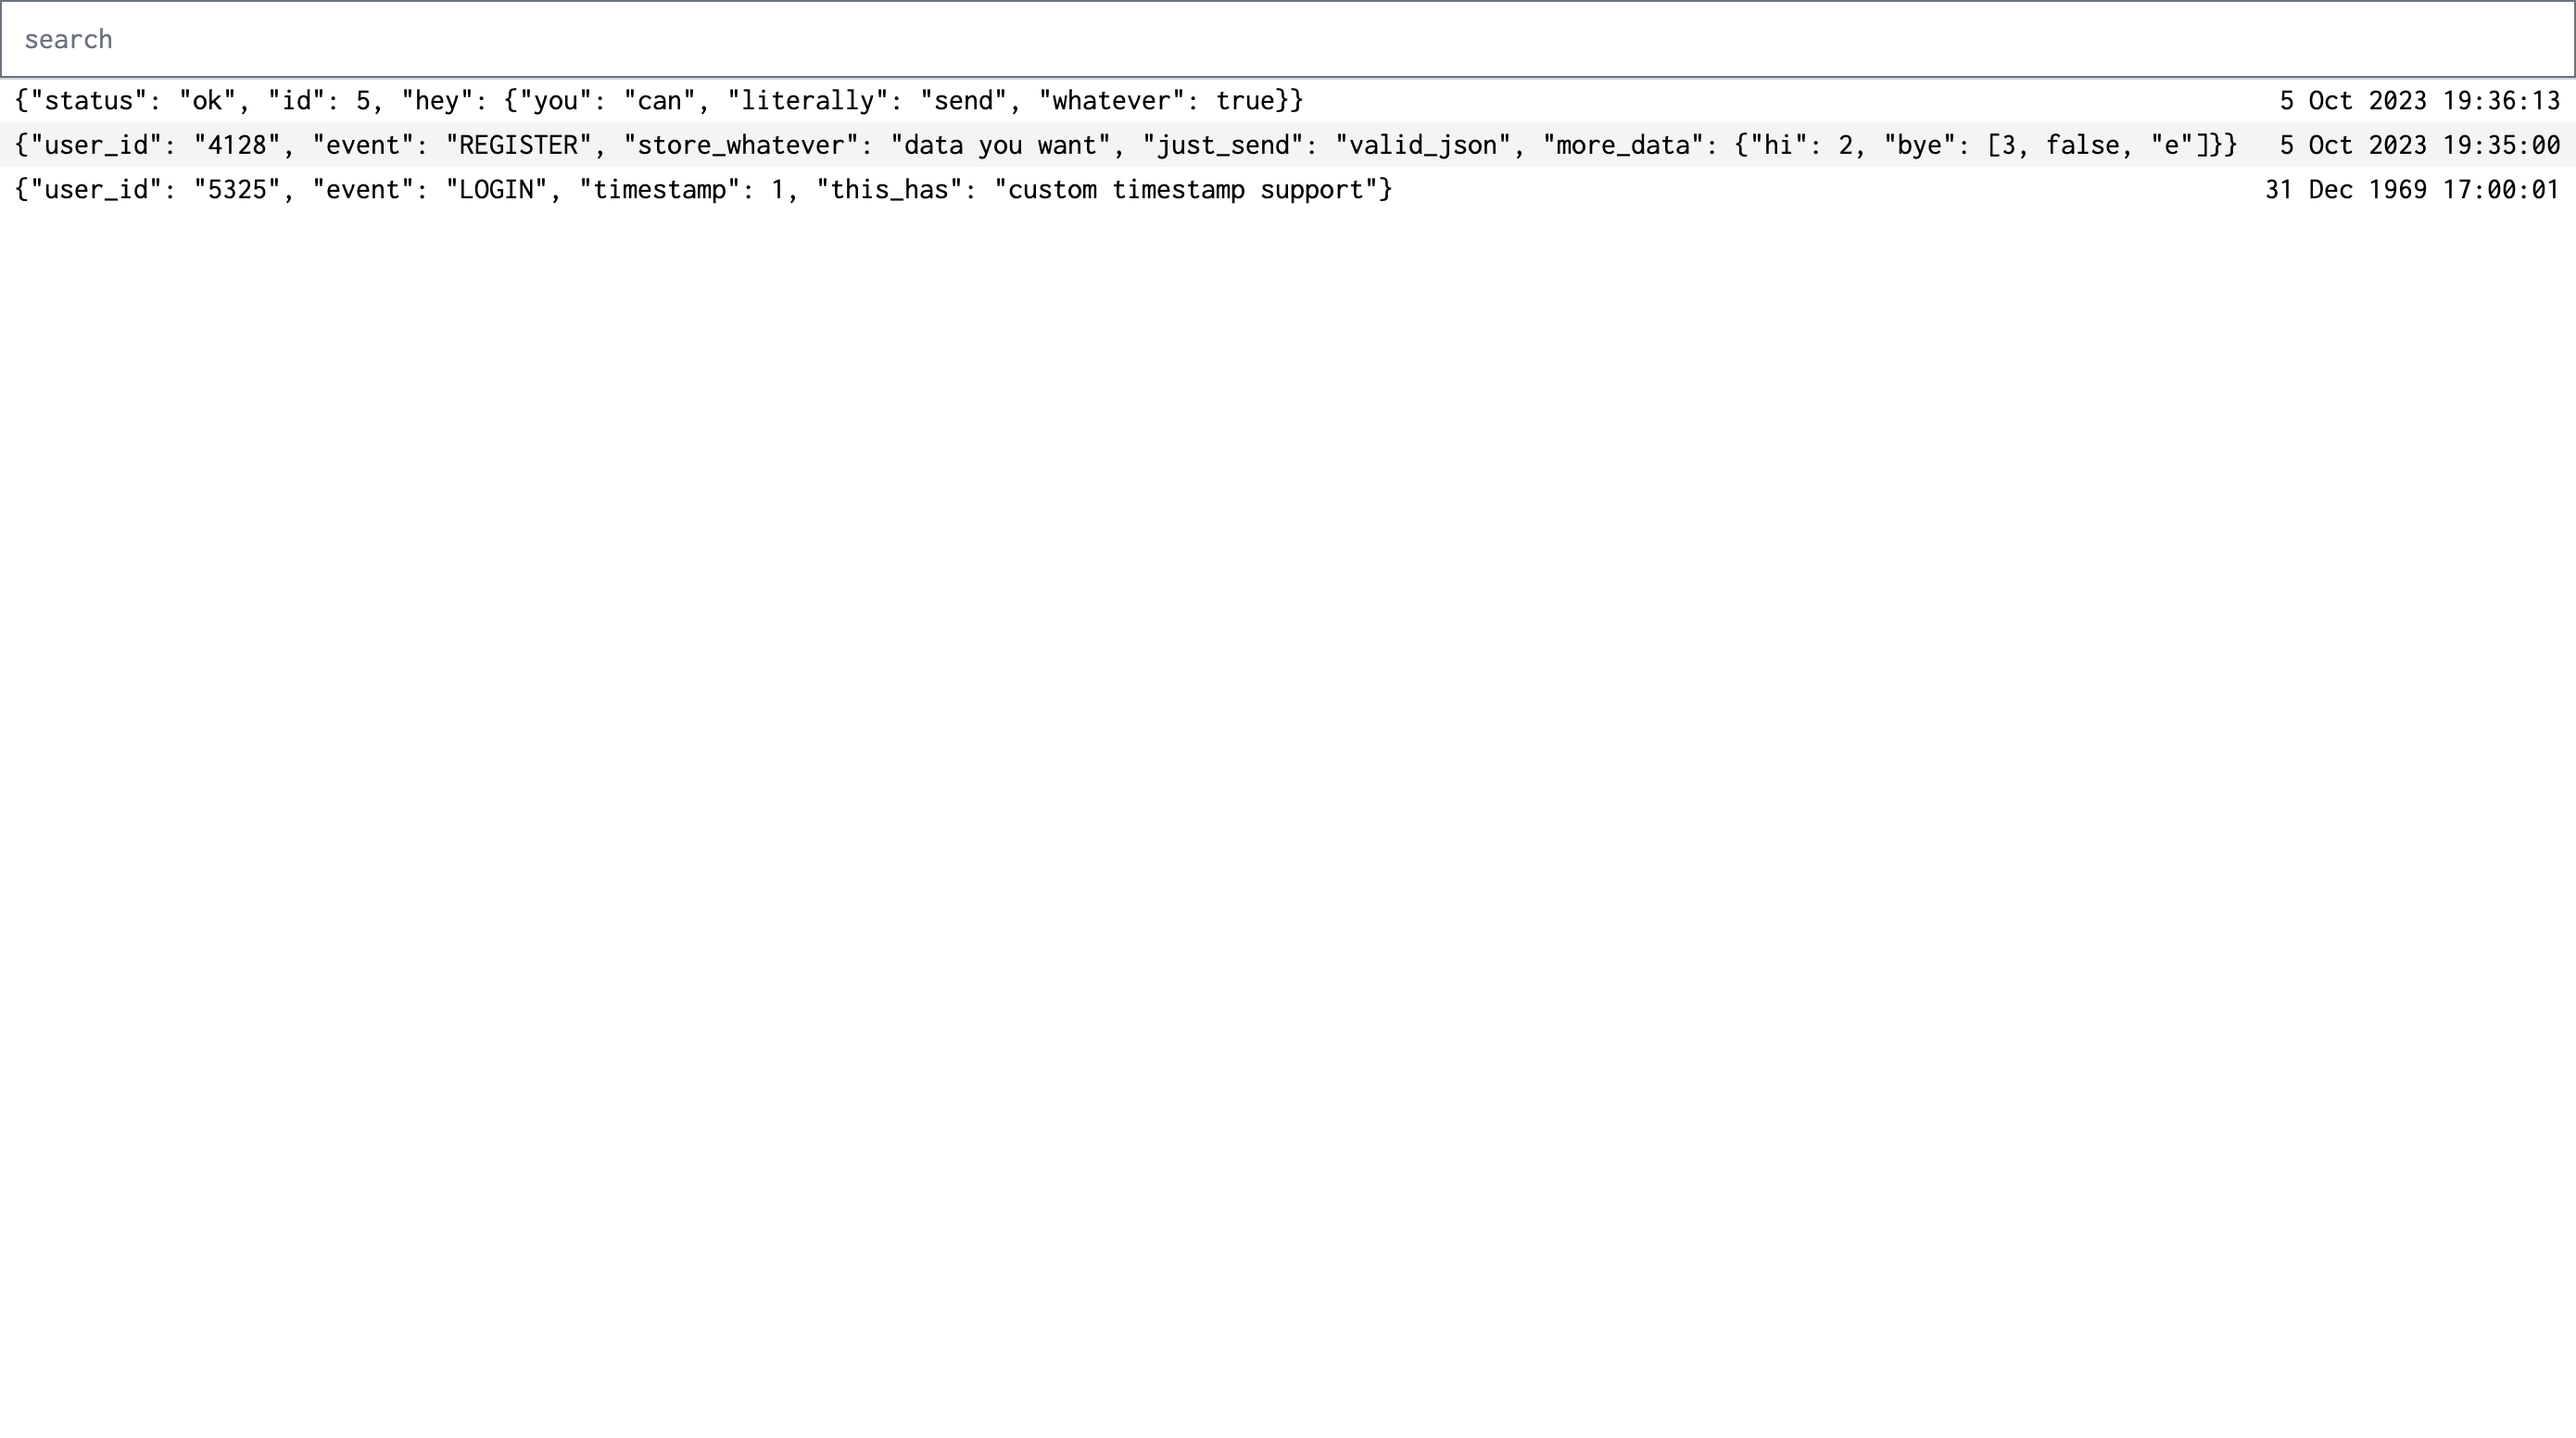
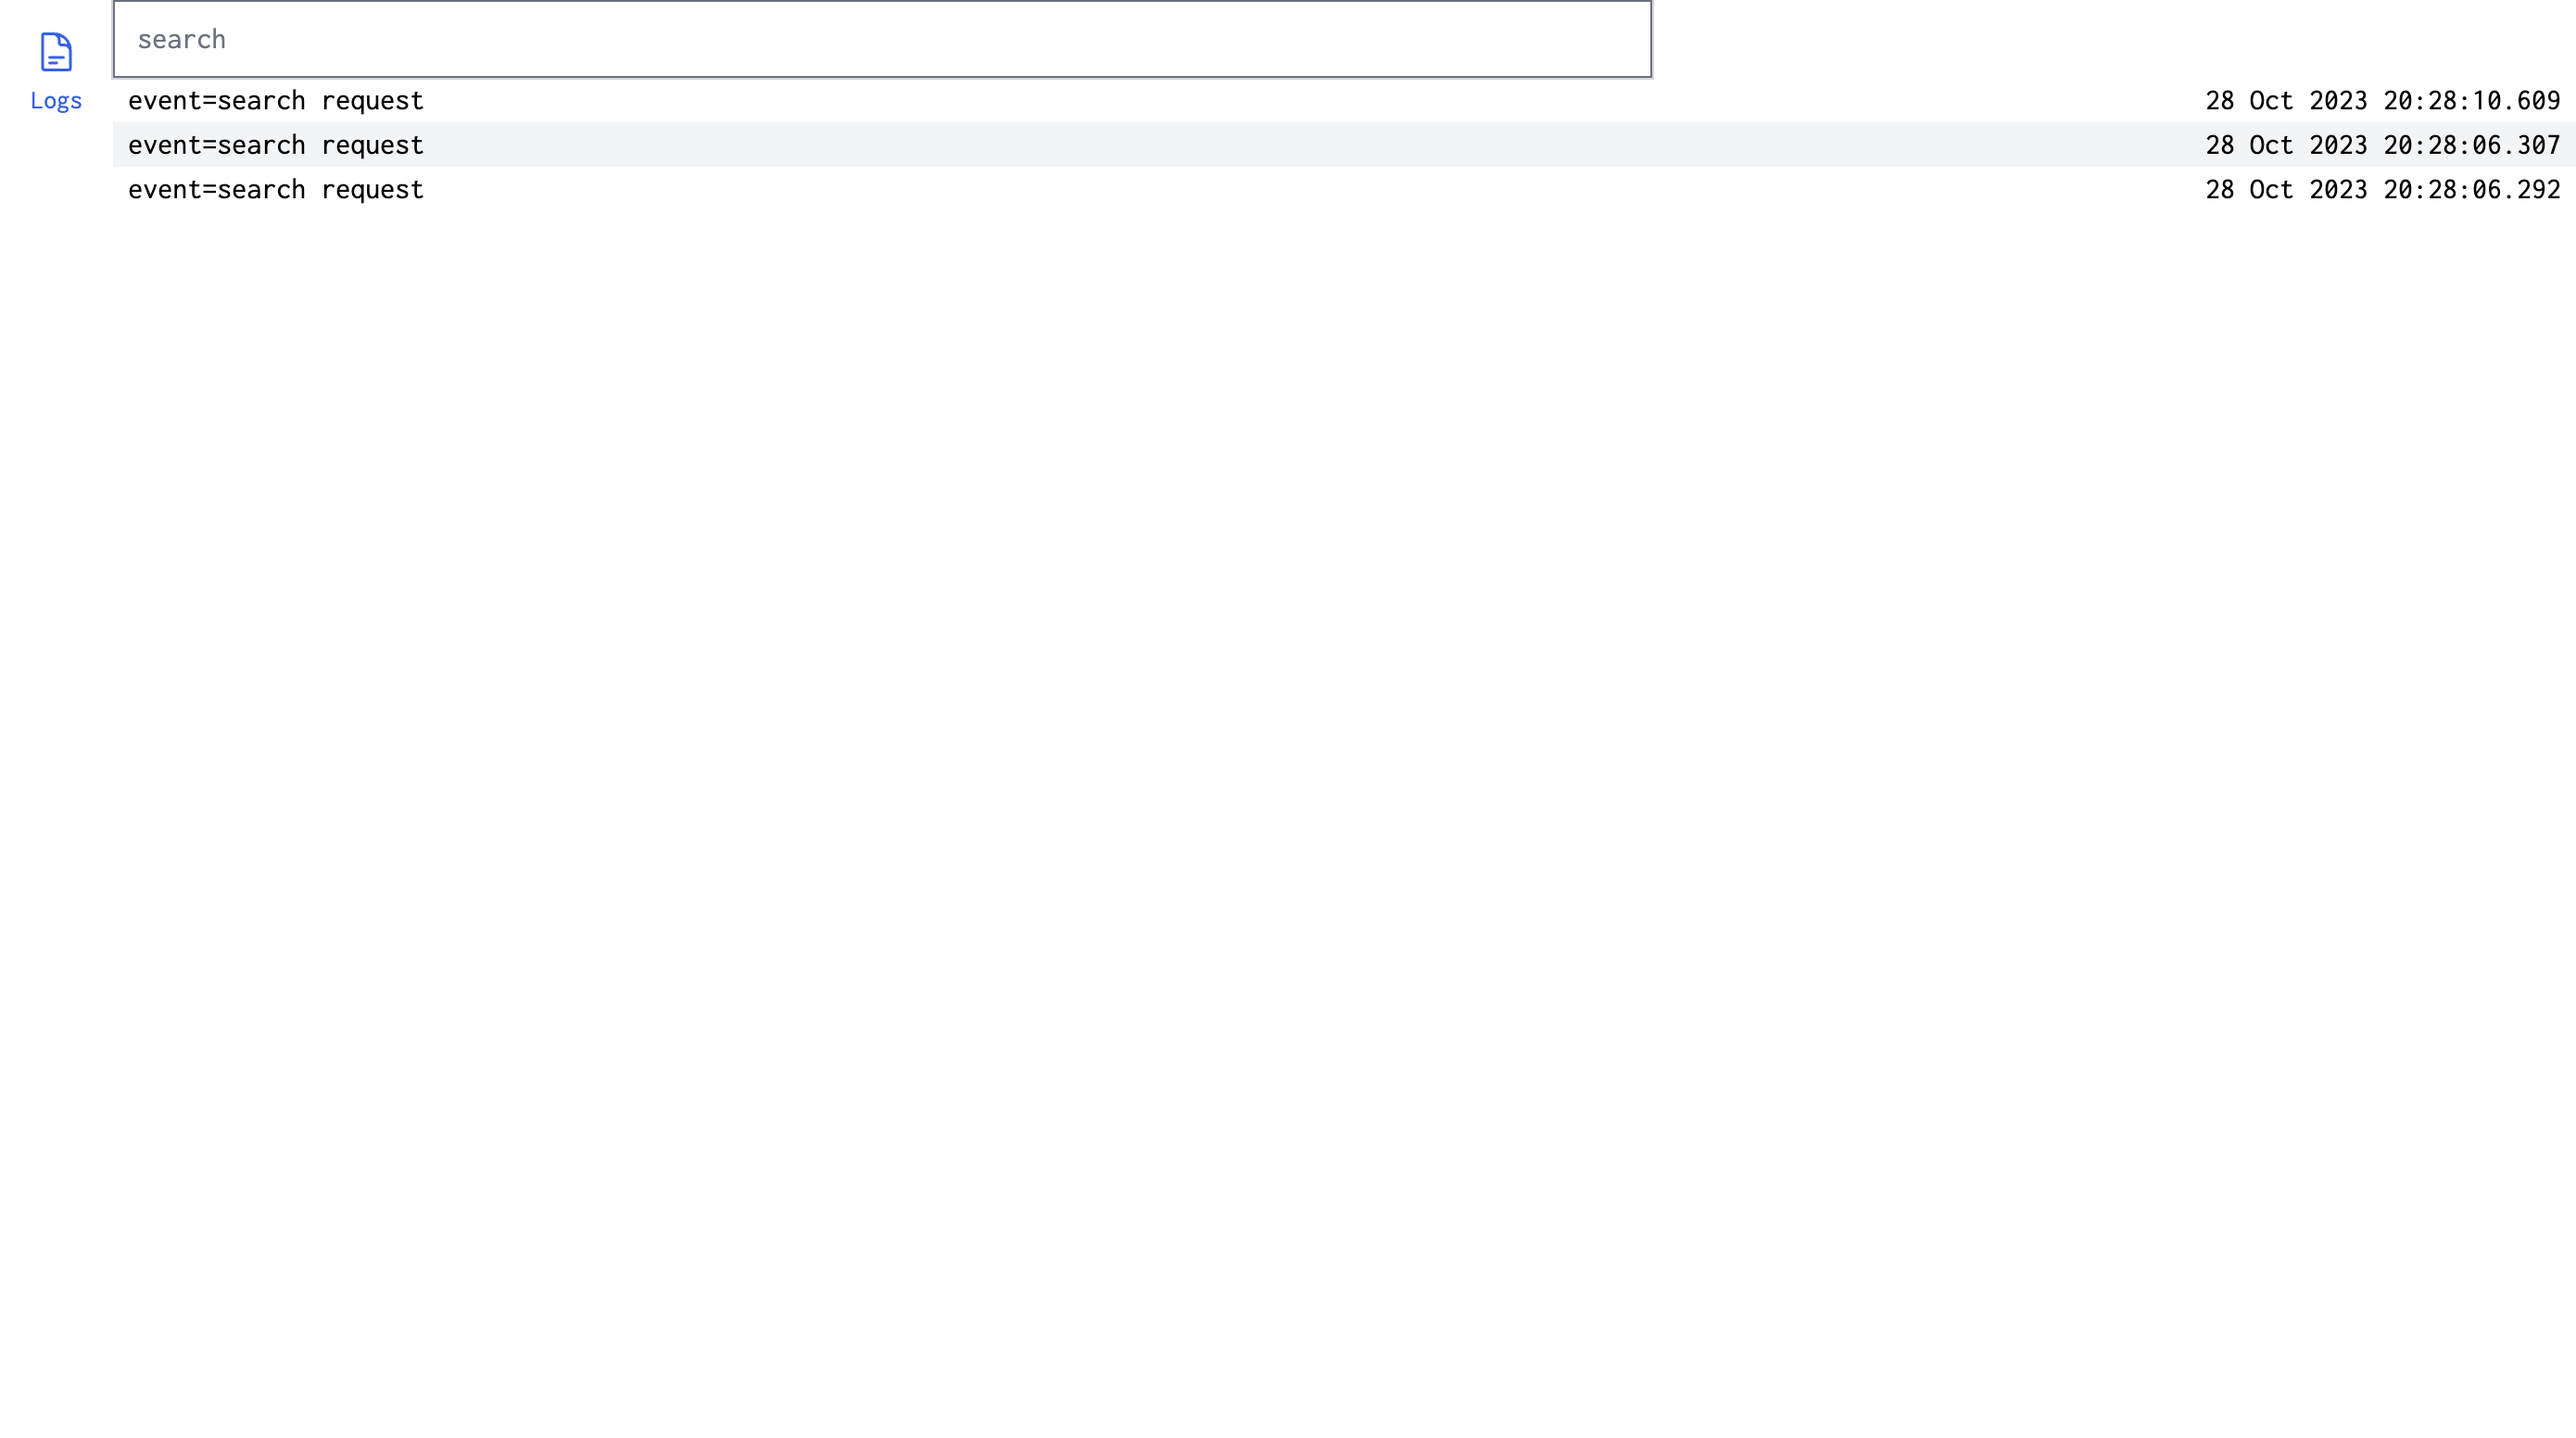
launch

diff --git a/ui/src/components/search.jsx b/ui/src/components/search.jsx
@@ -3,7 +3,7 @@ import { useState } from "react";
 export default function Search({ onSubmit, onChange, defaultValue, onEnter }) {
   const [v, setV] = useState("");
   return (
-    <form onSubmit={(e) => e.preventDefault()}>
+    <form className="grid grid-cols-8" onSubmit={(e) => e.preventDefault()}>
       <input
         type="text"
         onChange={(e) => {
@@ -14,7 +14,7 @@ export default function Search({ onSubmit, onChange, defaultValue, onEnter }) {
 
           onChange(e);
         }}
-        className="ring-1 ring-gray-300 w-full"
+        className="ring-1 ring-gray-300 w-full col-span-5"
         placeholder="search"
         defaultValue={defaultValue}
         onKeyDown={(e) => {

diff --git a/app/main.py b/app/main.py
@@ -136,10 +136,6 @@ async def root(request: Request):
         logger.error("Invalid page", status_code=400, page=page, parent_id=id)
         raise HTTPException(status_code=400, detail="Page is invalid")
 
-    # todo: compress the log as much as possible to make it one giant
-    # log with the events when you do stuff like this
-    # logger.info("user query", user_query=user_query, parent_id=id)
-
     try:
         logger.info("building query", user_query=user_query, p=p, parent_id=id)
         q = QBuilder()

diff --git a/README.md b/README.md
@@ -6,9 +6,9 @@
 
 ## Features
 
-- Ingest as many logs as you want from an http endpoint
-- Query logs with a query language
-- Runs on extremely low spec hardware
+- Ingest as many logs as you want from an http endpoint or file
+- Query logs with lucene
+- Will run on anything
 
 ## Sending Logs
 
@@ -26,6 +26,8 @@ Just send a POST request to erlog with JSON
 }
 ```
 
+Alternatively, run `export LOGS=file1.txt file2.txt` and those files will be tailed and ingested in to erlog.
+
 ## Viewing Logs
 
 ![img2](./assets/2.png)
@@ -34,21 +36,58 @@ Just send a POST request to erlog with JSON
 
 Erql is extremely simple. Here are some examples
 
-Querying a field
-`field.bar = 'hi'`
-`field.bar = 3.0`
-`field.bar = false`
+```rb
+# search for "foo" in any log (case sensitive)
+foo
+"foo"
 
-And Statements
-`field.x = 3 and field.y = false`
+# search where name = "foo" or name = "foo bar"
+name:foo
+name:"foo bar"
 
-Or Statements
-`field.x = 3 or field.y = false`
+# search for {name: {first: 'foo'}}
+name.first:foo
+name.first:"foo bar"
 
-Array index (this is getting improved)
-`field.arr.1 = 3 or field.arr.2 = false`
+# member = true
+member:true
+member:false
 
-## todo
+# null search
+member:null
+
+# search for height =, >, >=, <, <=
+height:=100
+height:>100
+height:>=100
+height:<100
+height:<=100
+
+# search for height in range (inclusive, exclusive)
+height:[100 TO 200]
+height:{100 TO 200}
+
+# AND/OR operators
+name:foo AND height:=100
+name:foo OR name:bar
+
+# grouping
+name:foo AND (bio:bar OR bio:baz)
+```
+
+## Instrumenting
+
+Just have your structured logger log in json, and then forward those logs to a file. A collector is coming soon which just `tail`s a file and forwards the requests to your erlog instance.
+
+Look here for an example of an instrumented function.
+
+## Example Project
+
+For an example project, see app/main.py. Erlog is instrumented using structlog.
+If you run `export LOGS=file1.txt` and `python3 -m uvicorn main:app > file1.txt`,
+you will start seeing erlogs logs in erlog.
+
+## Todo
 
 - clear db on 'reset_erlog' message (for development)
 - stream logs from db
@@ -63,3 +102,5 @@ Array index (this is getting improved)
   merge it into the current log, and an error you merge into the corresponding error log
 
   The idea is that if they both have the same parent id, do the merge
+
+- start reporting logs from the ui, set up service_name for both
